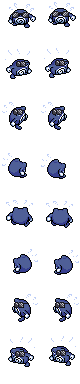
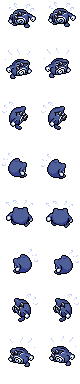
Poliwhirl side views: two same-size lenses, stacked
The side-facing glasses are now two equal lenses, one above the other along the turned face (the
near one over the upper eye, the far one over the eye below it), joined at the bridge, with the arm
back to the ear.

Claude-Session: https://claude.ai/code/session_019L7iVyevzrSsZHNd1CijFN

diff --git a/scripts/poli_shades/shades.py b/scripts/poli_shades/shades.py
@@ -114,6 +114,31 @@ def duo(near_w, far_w, lh, ox, oy, toward, arm=5):
     g = Glasses(px); g.force = frozenset(force)
     return place_at(g, ox, oy)
 
+def stacked(lw, lh, near, far, arm_y, arm, toward):
+    """A side view with the head turned so the eyes sit one above the other: two lenses of the same
+    size, the near one over the upper eye and the far one below it (offset along the face), their
+    frames touching as the bridge, and the arm from the near lens back to the ear. `near` and `far`
+    are the lenses' top-left corners in the right-facing drawing; facing left mirrors it about
+    `toward` = ('l', axis) where x -> axis - x."""
+    px = {}
+    px.update(lens(far[0], far[1], lw, lh, glint=1, rim=False, shine_from=1, gap=1))
+    farset = set(px)
+    px.update(lens(near[0], near[1], lw, lh, glint=1, rim=False, shine_from=1, gap=1))
+    # the bridge: the frames joined where the lenses meet (corners are cut, so fill them)
+    a = (near[0] + lw - 1, near[1] + lh - 1)          # the near lens's bottom-right corner
+    b = far                                            # the far lens's top-left corner
+    n = max(abs(b[0] - a[0]), abs(b[1] - a[1]), 1)
+    for i in range(n + 1):
+        px[(round(a[0] + (b[0] - a[0]) * i / n), round(a[1] + (b[1] - a[1]) * i / n))] = K
+    for k in range(1, arm + 1): px[(near[0] - k, arm_y)] = K
+    force = {q for q in farset if q in px and q not in lens(near[0], near[1], lw, lh)}
+    if toward != 'r':
+        axis = toward[1]
+        px = {(axis - x, y): c for (x, y), c in px.items()}
+        force = {(axis - x, y) for (x, y) in force}
+    g = Glasses(px); g.force = frozenset(force)
+    return g
+
 def prof(lw, lh, ox, oy, toward, arm=5):
     return place_at(profile_px(lw, lh, toward, arm), ox, oy)
 
@@ -123,7 +148,7 @@ SPEC = {
     '0060': {0: front(6, 5, 1, -7, -5), 1: three_q(6, 5, 0, -8, -4, 2, 'r'), 7: three_q(6, 5, 0, -5, -4, 2, 'l'),
              2: prof(5, 5, -6, -3, 'r'), 6: prof(5, 5, 3, -3, 'l')},
     '0061': {0: front(7, 6, 3, -9, -4), 1: three_q(7, 6, 1, -9, -3, 4, 'r'), 7: three_q(7, 6, 3, -6, -3, 3, 'l'),
-             2: duo(6, 4, 6, -4, -2, 'r'), 6: duo(6, 5, 6, -3, -2, 'l')},
+             2: stacked(4, 5, (-4, -2), (0, 2), -1, 4, 'r'), 6: stacked(4, 5, (-4, -2), (0, 2), -1, 4, ('l', 2))},
     '0062': {0: front(7, 5, 5, -10, -5), 1: three_q(7, 5, 2, -10, -3, 1, 'r'), 7: three_q(7, 5, 2, -7, -3, 1, 'l'),
              2: prof(5, 5, -5, -1, 'r'), 6: prof(5, 5, 3, -1, 'l')},
     '0186': {0: front(6, 6, 3, -8, -8), 1: three_q(6, 7, 2, -9, -7, 1, 'r'), 7: three_q(6, 7, 2, -5, -7, 1, 'l'),
